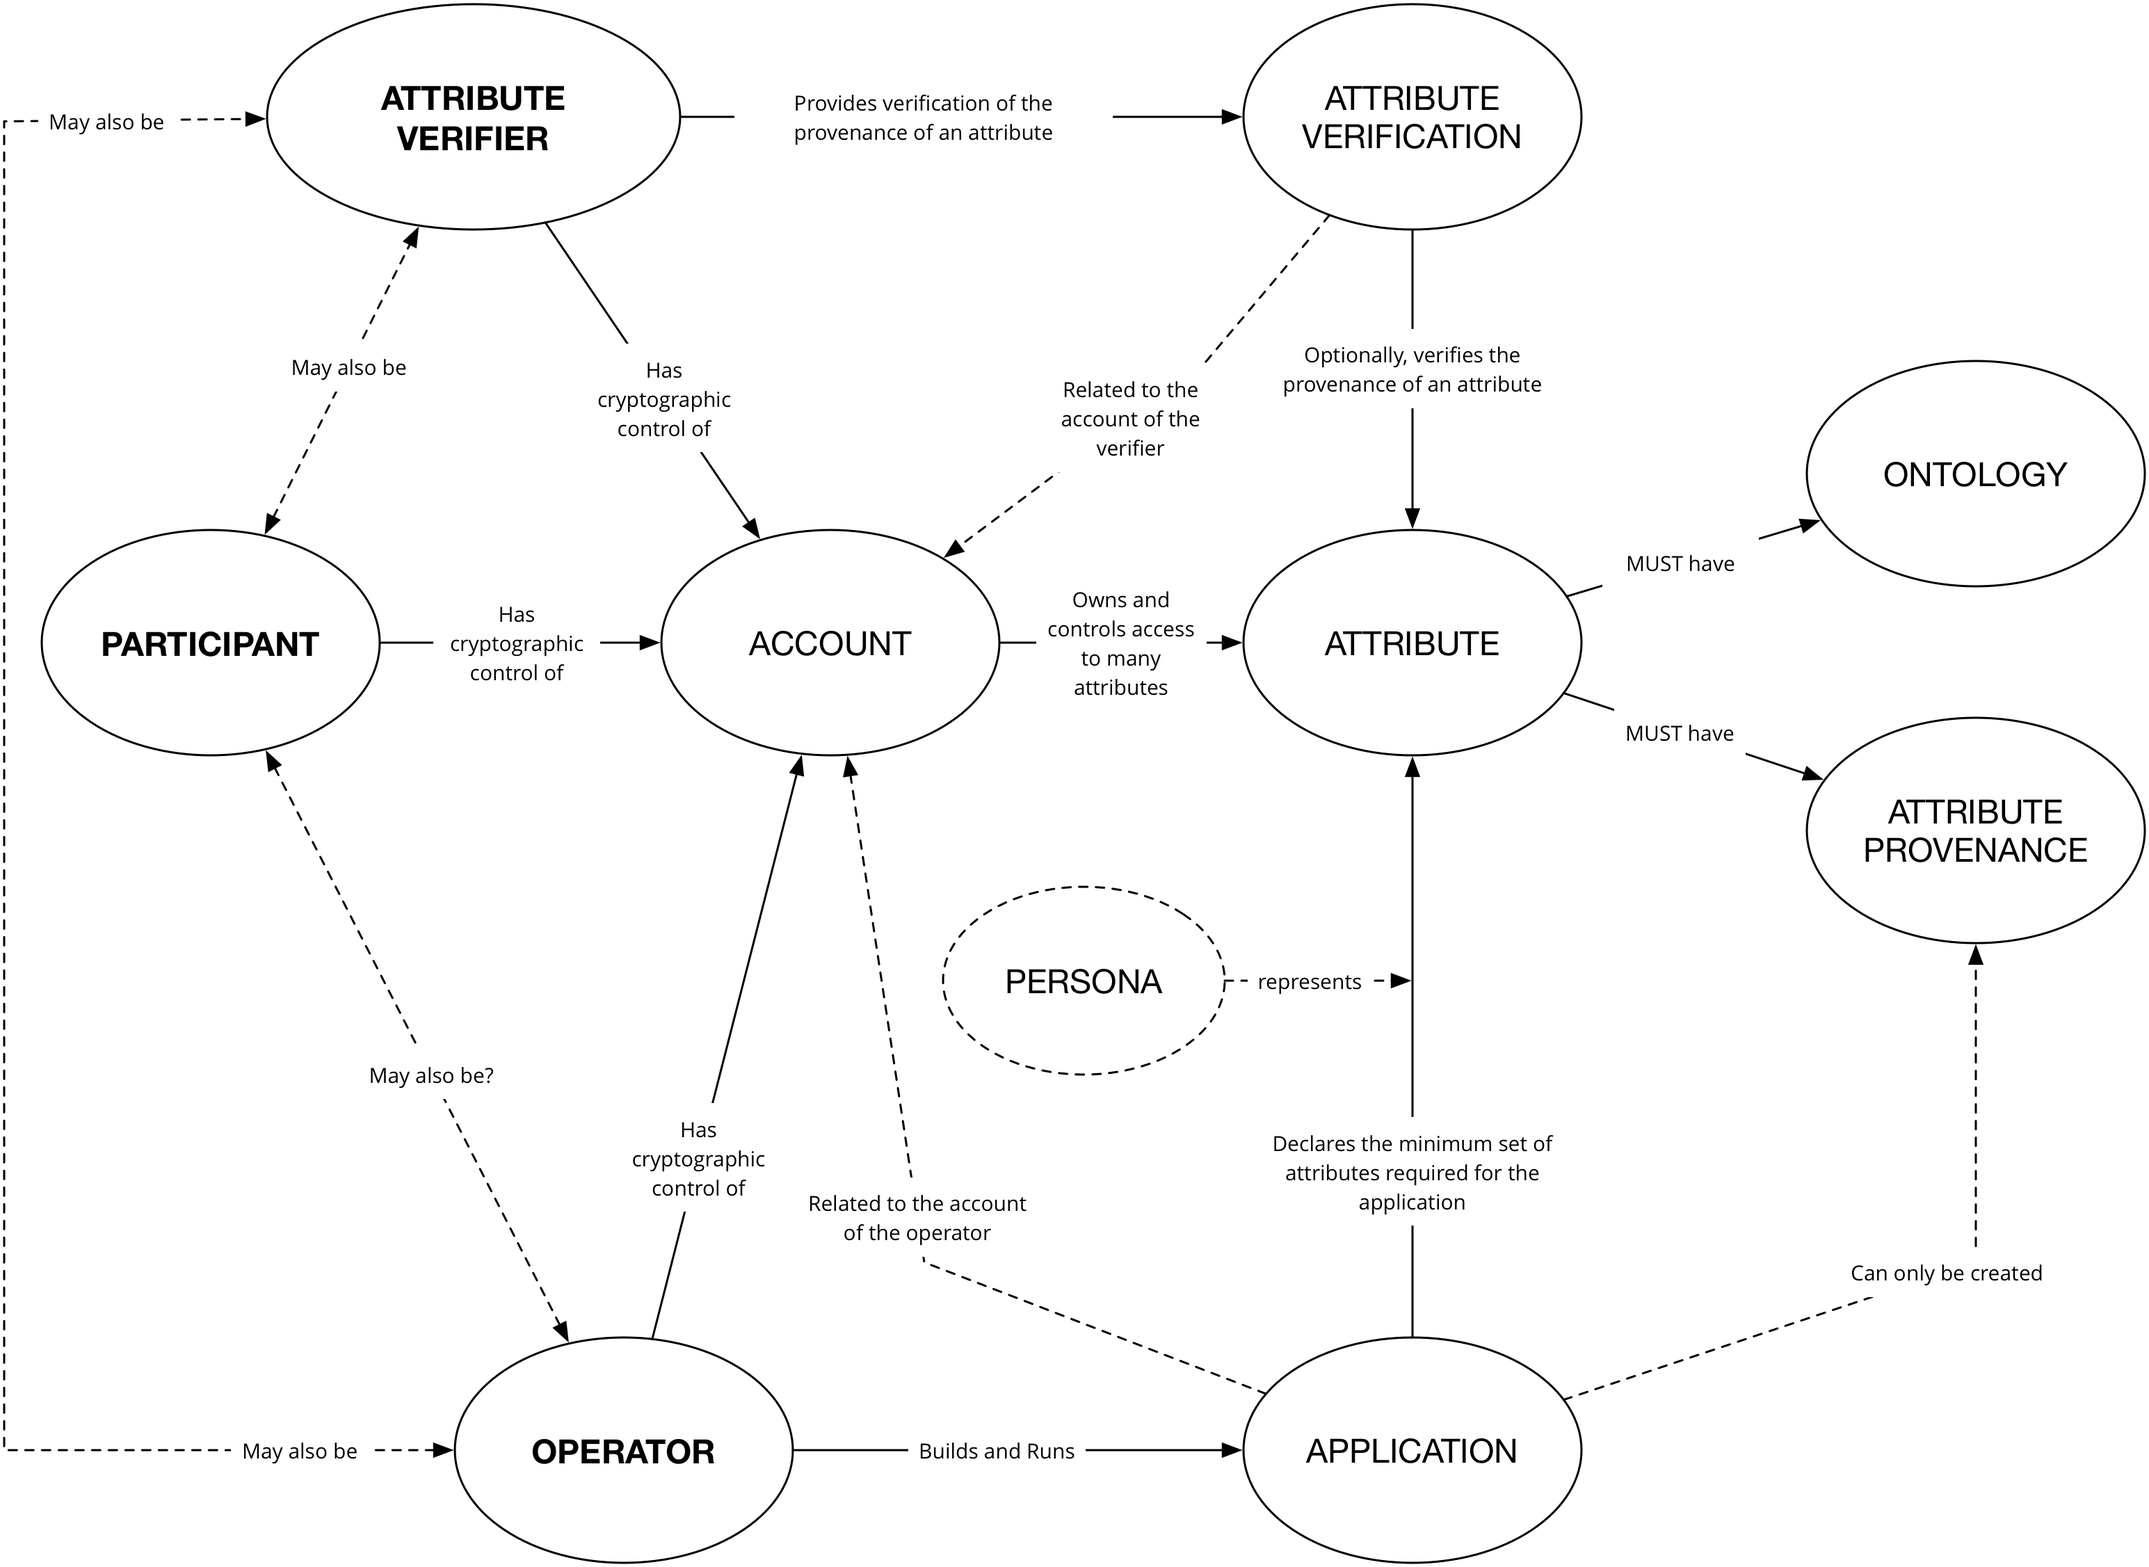
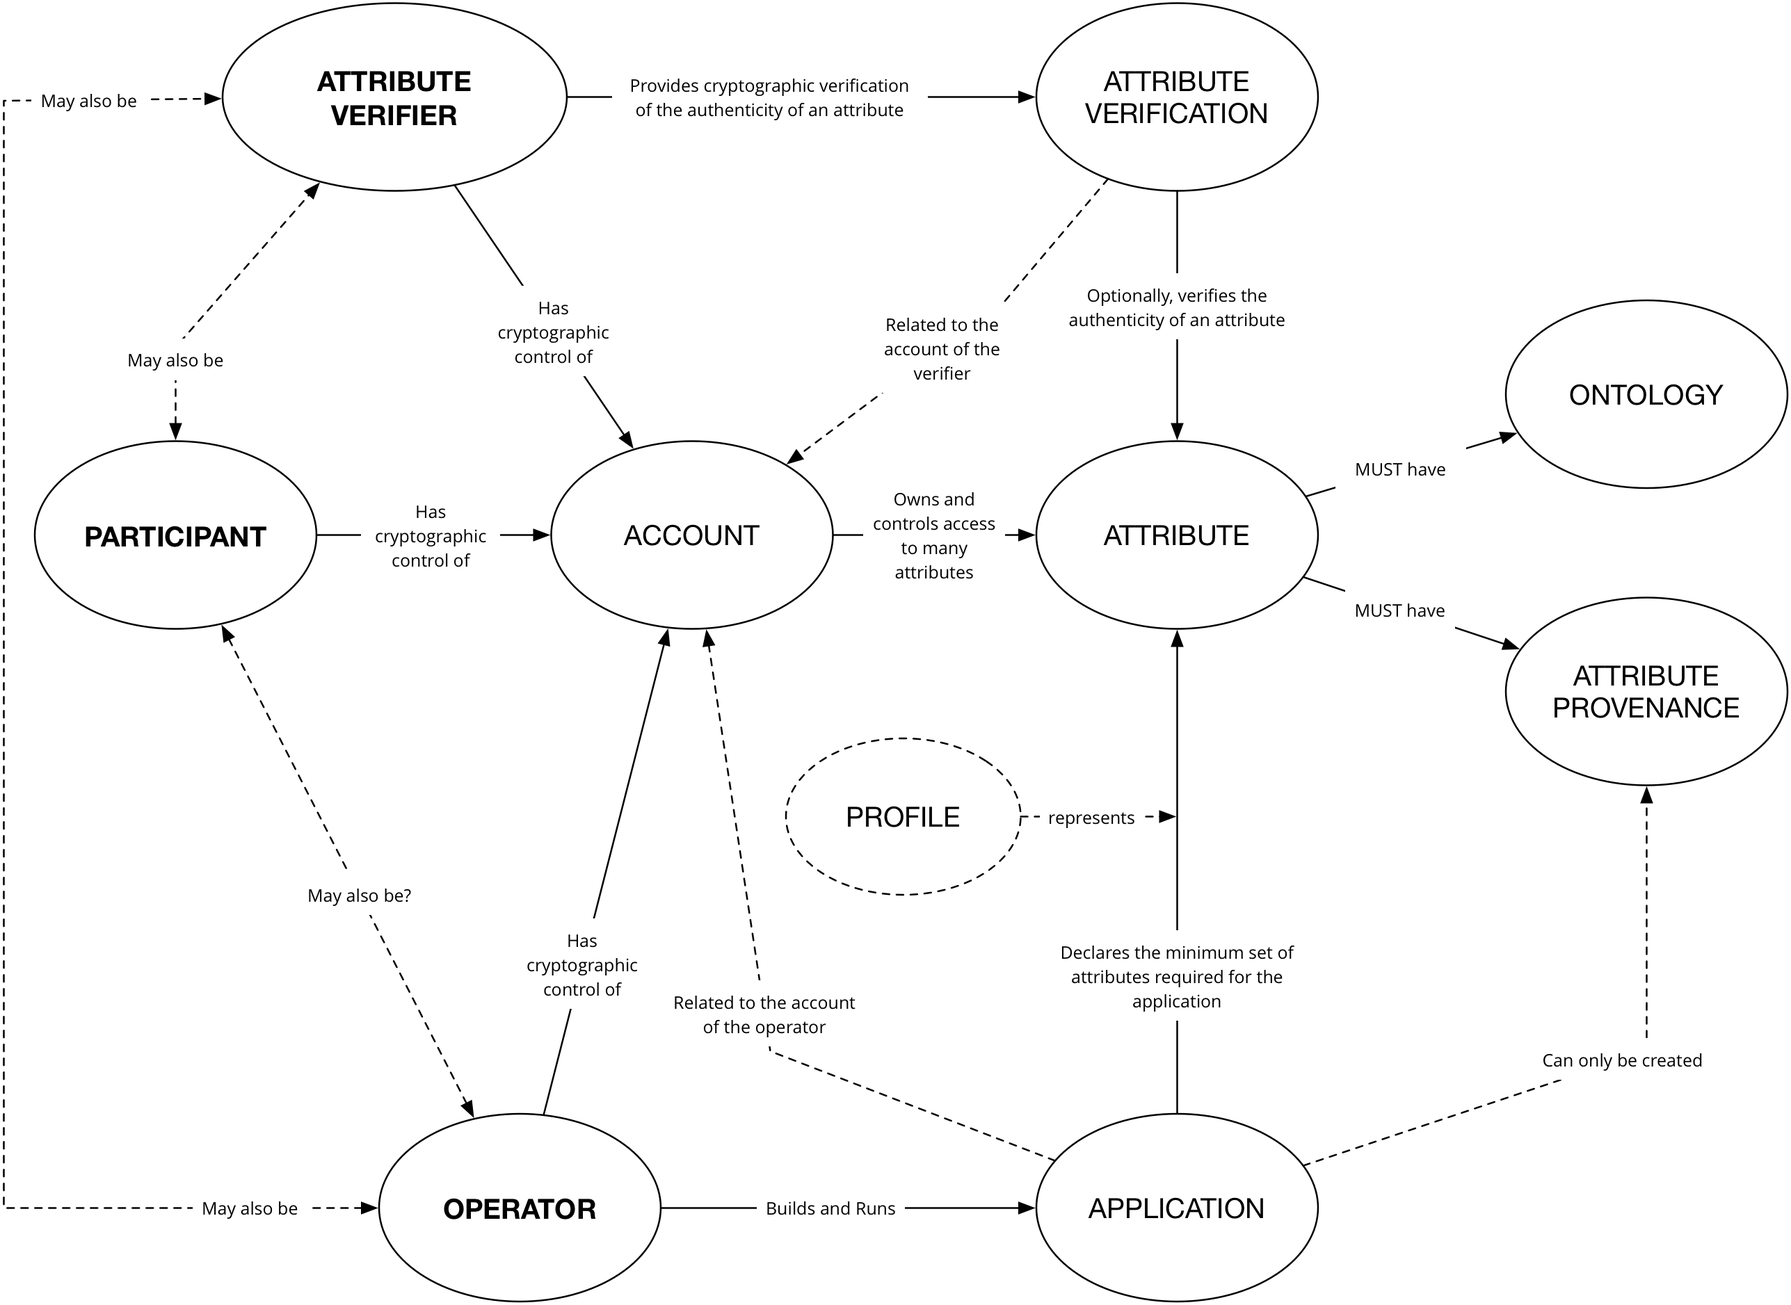
Various minor changes

diff --git a/conceptual_framework.md b/conceptual_framework.md
@@ -1,6 +1,6 @@
 # Conceptual Framework
 
-We first describe the DECODE architecture at a very high level of abstraction. In the sections to follow we will discuss each of the components, and how they are implemented, in detail.
+This section describes the foundational concepts that are combined to achieve the purpose of DECODE. 
 
 Entities
 
@@ -12,12 +12,16 @@ We broaden the scope to resources: data, but also devices. Resources are either 
 
 The *publisher* of restricted data determines who has access to the data. To this end it attaches an *entitlement condition* to the restricted data. Users wishing to obtain access to the data need to prove they possess the necessary *entitlement*. Entitlements can be *issued* to users. Entitlements have a *lifetime*: they are not valid before and not valid after a certain time. Additional flexibility can be expressed through *smart contracts* that, given a set of inputs (consisting of entitlements but also other *context*, like the current location or the current time or date) yield an entitlement. Smart contracts are stored and executed on a *distributed ledger*. Users store[^store] their entitlements privately.
 
-```
+![Key conceptual terminology and relationships](img/terminology-relationships.png "Key conceptual terminology and relationships")
+
+
+```comment
 tomd: here we need to refine.. entitlements are possibly dynamic, as mentioned in the footnote; also, currently it is not clear that we will execute the contracts 'on the ledger', or just use the ledger as a means of verifiation -- this is mentioned below, as well
+jimb: given chainspace it is precisely not executing transactions on the ledger.
+jimb: also we need to work on some of the terminology - especially around restricted and personal - should we use an existing ontology?
 ```
 [^store]: Maybe entitlements do not even exist when not needed or used, and only come into being when needed.
 
-![Key conceptual terminology and relationships](img/terminology-relationships.png "Key conceptual terminology and relationships")
 
 
 (So, for example, a home owner wishing to allow his guests access to the local Wifi could create an entitlement `john-doe-house-wifi`, a smart contract saying "*if someone has an entitlement `renting-john-doe-house` and this entitlement is valid now, then output the entitlement `john-doe-house-wifi` valid for one hour*". Then if the owner rents out his house and issues the renter the entitlement `renting-john-doe-house`, access to the wifi is securely arranged automatically.)
@@ -75,11 +79,11 @@ In the DECODE ecosystem we will keep the diverse and subtle ways of addressing a
 
 Better to avoid discussion and confusion and **not** to use the word identity at all, and talk about different collections of attributes, relevant in different (online, or even DECODE-supported offline) contexts (or *applications*). 
 
-Let's call such a collection a **persona** for now.
+Let's call such a collection a **profile** for now.
 
-In the end we are talking about physical people (AI's with civil rights are a ways off), even when assigning attributes that are purely abstract, or are transferable, these are about, or related to a person. This person is represented in the DECODE ecosystem as a persona, but **not uniquely**. One physical person will have control of the data related to multiple **personas**. These may overlap (in the values of certain attributes), or may not. 
+In the end we are talking about physical people (AI's with civil rights are a ways off), even when assigning attributes that are purely abstract, or are transferable, these are about, or related to a person. This person is represented in the DECODE ecosystem as a profile, but **not uniquely**. One physical person will have control of the data related to multiple **profile**. These may overlap (in the values of certain attributes), or may not. 
 
-These personas aren't entities in the DECODE system, they are a way of talking about *application-defined* collections of attributes. Personas are the subject of **entitlements**, even when, for instance, the only attribute needed for the online alcohol-buying app is the age, that app would, in its use, **define** a persona with an age, and nothing else at all. For the sake of argument we leave out practicalities as payment, and the address to send the purchase to.
+These profiles aren't entities in the DECODE system, they are a way of talking about *application-defined* collections of attributes. Profiles are the subject of **entitlements**, even when, for instance, the only attribute needed for the online alcohol-buying app is the age, that app would, in its use, **define** a profile with an age, and nothing else at all. For the sake of argument we leave out practicalities as payment, and the address to send the purchase to.
 
 The connection to the real person in the real world is through a DECODE account that the person will authenticate against in order to interact with DECODE applications. This account is not part of the decode data that these applications have anything to do with, although the authentication app or apps (multiple means of authentication) could be seen as a special kind of DECODE enabled applications.
 
@@ -87,6 +91,9 @@ Authentication usually involves a participant providing various personally ident
 
 A participant demonstrates control of these **attributes** through some cryptographic means (essentially by holding a private key). This private key may be embedded on a physical device that the participant owns, such as a [Ubikey](https://www.yubico.com/products/yubikey-hardware/) or Smart Card issued by a civic authority. In the case of a device issued by an authority it may also contain attributes of interest to other DECODE applications, such as the fact that one lives in a particular city. These attributes, when stored, record the provenance and the semantic meaning of the relation in their urn, and can so be "officially verified" attributes that certain applications may require (such as voting in participatory budgeting applications, see below).
 
+```comment
+jimb: How does ABC now fit in with the conceptual model of attribute verification and provenance
+```
 
 
 
@@ -130,6 +137,9 @@ To enable this functionality we add a fourth clause to the statement:
 
     <account> schema:addressLocality 'Amsterdam' <app_id:scope:verifier>
 
+```comment
+jimb: I think we might need to distinguishe more clearly between the conceptual model here and the actual implementation. there is a slight issue I think with talking about clauses and statements in that it sounds like I would expect to see this representation somewhere in the system. we may visualise it in the UI but it feels to me like this structure is more logical than implementation?
+```
 At the very least the \<prov> clause holds an **application id**; the other parts of the clause are optional. The app_id is a unique id that represents an **application**, and is issued what that application registers (for the precise sense in which we use the word application, please see the glossary).
 All statements are made by an application. Without anything else, this application is the only entity that can access the data (applications always have access to their own data); default **scope** is 'application'. Another scope is 'world'; further scopes are entitlements based on (possibly unrelated) attributes (only people of Amsterdam can see that I live in Amsterdam). There is also a 'decode core' application hat does not play by these rules. This would be an application that allows participant to 'administer' their decode 'accounts' and data. Participants that control an \<account> can, through this application, always access (and delete, but not necessarily modify) the statements that have this \<account> as a subject.
 
@@ -148,7 +158,7 @@ PAULUS
 
 DECODE will **not** provide the role of **identity verification**, however it will provide an integration protocol to allow **claims** made by participants to be leveraged in DECODE interactions (specifically, smart rules). These claims may lead to **entitlements**.
 
-A core functionality of DECODE is **verification** of **claims** that an individual makes about themselves. For example "I live at 00 Xxxxx Xxxxxx" or "I am over the age of 18" or "I am a resident of Barcelona city". These claims may be important in a particular application use case. For example if we have an application which allows voting to residents of Barcelona, we might want to be able to verify that the persona as defined by the voting application is also a resident of Barcelona. Furthermore, the application defines a secure and uniquely identifiable attribute, together with a smart rule that only allows a single vote for any particular ballot. Through using DECODE, the attribute does not have to expose any real knowledge (for example a citizen ID number) but it must be possible to be checked for a particular value (number of votes cast).
+A core functionality of DECODE is **verification** of **claims** that an individual makes about themselves. For example "I live at 00 Xxxxx Xxxxxx" or "I am over the age of 18" or "I am a resident of Barcelona city". These claims may be important in a particular application use case. For example if we have an application which allows voting to residents of Barcelona, we might want to be able to verify that the profile as defined by the voting application is also a resident of Barcelona. Furthermore, the application defines a secure and uniquely identifiable attribute, together with a smart rule that only allows a single vote for any particular ballot. Through using DECODE, the attribute does not have to expose any real knowledge (for example a citizen ID number) but it must be possible to be checked for a particular value (number of votes cast).
 
 So how are claims actually verified in the first place? In the example, the entity responsibile for verification would be the city of Barcelona. This could be a physical process, or could be done online (as in the Dutch DigiD mechanism), and involves some exchange between the city and the individual. The result of this exchange would be a cryptographic token, signed by the city, which, invoked with a specific smart rule would result in an attribute with verified provenance and value being set in the DECODE platform. This attribute would be available for that person to use in any application relying on it.  This whole process could take place through a website which is run by the city of Barcelona (and thus is a DECODE enabled application). Required will be a mechanism by which the DECODE network can **trust** the public key of the city of Barcelona, i.e. there will need to be a registration protocol to establish this trust.
 
@@ -212,6 +222,8 @@ markd - I think we should choose one propsed implementation??
 
 ### Implementation (Access control)
 
+Defining and declaring entitlements is a matter of describing access rules. In order for these to be useful we require a mechanism to enforce them. In a traditional system we would simply "trust" that the system has been coded to take account of the entitlement declaration - for example we might install an authorisation server product to define and store entitlements and rely on the developers of the system to code appropriate controls into the system that communicate with the authorisation server.
+
 - Data Vault
 - Encryption
 - Broadcast encryption (e.g. DRM)
@@ -226,7 +238,6 @@ For example if the data has been aggregated into a central store, access should 
 
 Other ways that this can be achieved are via encryption where the access control is directly related to the data.
 
-Defining and declaring entitlements is a matter of describing access rules. In order for these to be useful we require a mechanism to enforce them. In a traditional system we would simply "trust" that the system has been coded to take account of the entitlement declaration - for example we might install an authorisation server product to define and store entitlements and rely on the developers of the system to code appropriate controls into the system that communicate with the authorisation server.
 
 ![Asymmetric key based encryption](img/baseline-encryption.png "Asymmetric key based encryption")
 

diff --git a/introduction.md b/introduction.md
@@ -1,15 +1,14 @@
 # Outline
 
-This documents describes the design of the DECODE architecture. The document will evolve over time and will be published as a versioned series.
+This documents describes the design of the DECODE ([https://decodeproject.eu/](https://decodeproject.eu/)) architecture. The document will evolve over time and will be published regularly as a versioned series.
 
-| Version | Date Published |
-| ------- | -------------- |
-| 0.1     | YYYY-MM-dd     |
+| Version                        | Date Published            | 
+| ------------------------------ | ------------------------- |
+| EA-SNAPSHOT (Early Access)     | (Targeted Oct 31 2017)    |
 
 
-This whitepaper is structured as follows. We first describe the functionality the architecture should implement, together with the main non-functional requirements (like security and privacy and ...). We then give a high-level description of the conceptual foundations that are brought together, before digging deeper and discussing the main components. We describe the function and responsibility of these and how they relate to each other. We then discuss what kind of applications can be built with DECODE and provide some examples.
+The whitepaper is structured as follows. We first describe the functionality the architecture should implement, together with the main non-functional requirements. We then give a high-level description of the conceptual foundations that are brought together, before digging deeper and discussing the main components. We describe the function and responsibility of these and how they relate to each other. We then discuss what kind of applications can be built with DECODE and provide some examples.
 
-This whitepaper will be updated regularly to include new functionality and improved designs. The current version describes the minimum viable product (MVP).
 
 # Introduction to DECODE
 
@@ -21,7 +20,7 @@ The DECODE architecture must be secure, distributed and privacy
 friendly as it will host different privacy sensitive applications in
 parallel.
 
-DECODE is made of:
+### DECODE is made of:
 
 - a set of specifications for distributed ledgers to support decode
 - a free and open source reference implementation of a distributed ledger
@@ -30,16 +29,19 @@ DECODE is made of:
 - the documentation needed for operators to write and deploy smart rules that request access to private data
 - an intuitive graphical interface for participants to allow smart rules to access their private data
 - an ontology of attributes for private data that is aggregated by operators
-- an attribute based cryptographic implementation that can grants access to data
+- an attribute based cryptographic implementation that can grant access to data
 
-DECODE main goals are:
+
+### DECODE main goals are:
 
 - allow *participants* to manage access to their *private data*, by granting and revoke access to parts
 - allow *operators* to write *smart rules* sign them and get the authorisation to run them on DECODE
 - allow *smart rules* to access *private data* based on *entitlements* and matched *attributes*
 - allow everyone to record *entitlements* on a *distributed ledger* whose integrity is resilient and verifiable
 
+```comment
 TODO: description of 1-2 use cases once the first pilot in Amsterdam and Barcelona are selected, e.g. collaborative economy/hospitality (FairBnB) and participatory citizen sensing (Things Network, Fitbit)*
+```
 
 3 exemplar use cases / demo apps:
 
@@ -47,7 +49,25 @@ TODO: description of 1-2 use cases once the first pilot in Amsterdam and Barcelo
 - B) Asset sharing / renting (TBD, equivalent of FairBnB)
 - C) Complex privacy (TBD, either in terms of participants or varying based on context)
 
-## History and current "state of the art"
+## History and current state of the art
 
-## Alternatives to DECODE
+```
+Bitcoin -> Ethereum 
+        -> Private implementations -> Alternatives to Proof of work
+                                   -> Permissioned -> Hyperledger -> Monax Burrow
+                                                                  -> IBM Fabric
+                                                                  -> R3 Corda
+                                                                  
+Models Of execution:
 
+Execute transactions vs Verification
+
+Privacy
+
+Scalability
+
+                                                             
+                                   
+    
+        
+```

diff --git a/README.md b/README.md
@@ -22,13 +22,13 @@ Here a list of sections and people busy curating them
 
 | Section                   | curators |
 |---------------------------|----------|
-| Conceptual framework      |          |
+| Conceptual framework      | jimb     |
 | Architectural principles  |          |
 | OS architecture           | jaromil  |
 | Hardware architecture     |          |
-| Distributed ledger        |          |
+| Distributed ledger        | alberto  |
 | Smart rules engine        | jaromil  |
-| DECODE applications       |          |
+| DECODE applications       | jimb     |
 
 ## Building
 
